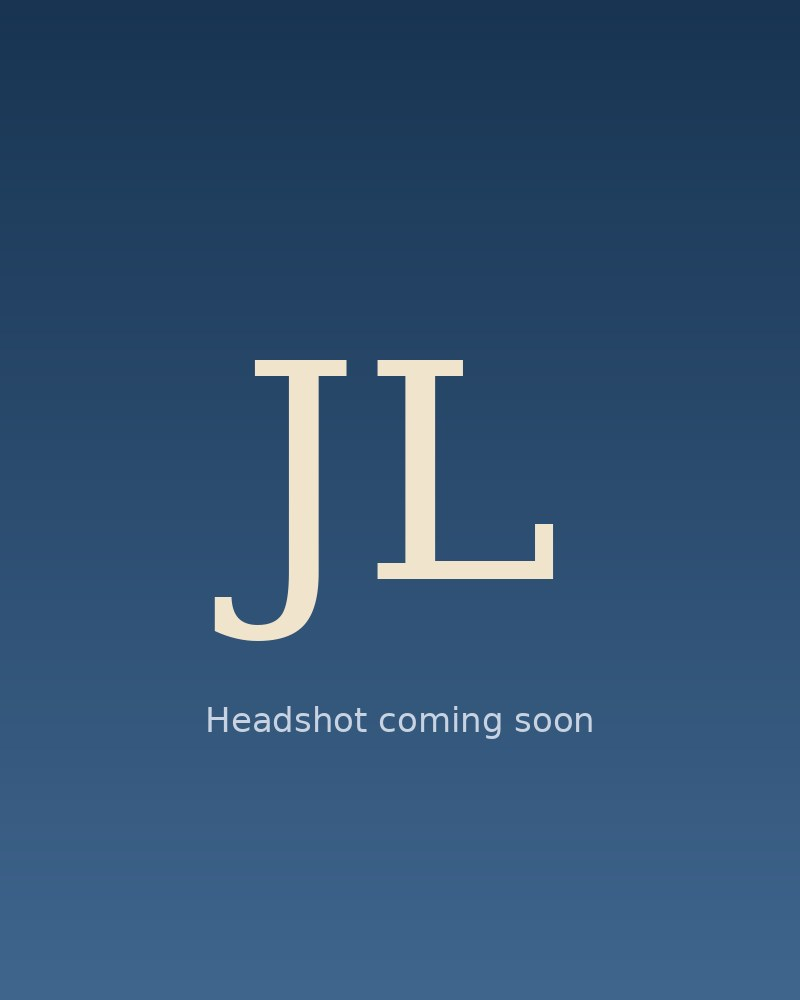
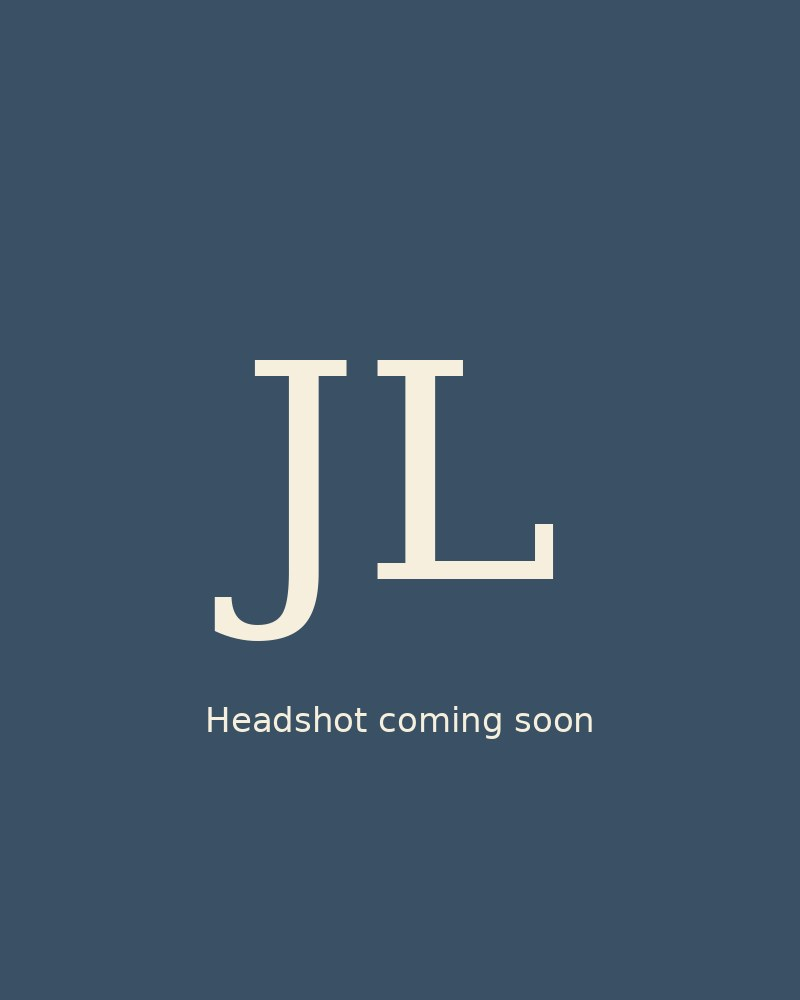
Jose Lugo: slate + cream brand colors
Claude-Session: https://claude.ai/code/session_01P79Njs8aUG8tTWUg37r7P5

diff --git a/elite.css b/elite.css
@@ -1,6 +1,6 @@
 /* ===== Jose Lugo, REALTOR®: Elite ===== */
 :root {
-  --accent: #f78d2d; --accent-soft: #f9b073; --cream: #f4efe8; --ink: #17161a; --muted: #77716b;
+  --accent: #3a5165; --accent-soft: #f6efdd; --cream: #f6efdd; --ink: #1c2a37; --muted: #6b7682;
   --serif: "Instrument Serif", Georgia, serif; --sans: "Inter", system-ui, sans-serif;
   --glass: rgba(255,255,255,.12); --glass-line: rgba(255,255,255,.28); --r: 26px;
 }
@@ -33,7 +33,7 @@ em { font-style: italic; color: var(--accent); }
 
 /* Cursor glow */
 .cursor-glow { position: fixed; z-index: 1; width: 420px; height: 420px; border-radius: 50%; pointer-events: none; left: 0; top: 0;
-  background: radial-gradient(circle, rgba(247,141,45,.18), transparent 65%); transform: translate(-50%,-50%); transition: opacity .4s; mix-blend-mode: screen; }
+  background: radial-gradient(circle, rgba(246,239,221,.18), transparent 65%); transform: translate(-50%,-50%); transition: opacity .4s; mix-blend-mode: screen; }
 
 /* Floating nav */
 .nav-wrap { position: fixed; top: 22px; left: 0; right: 0; z-index: 100; display: flex; justify-content: center; pointer-events: none; }
@@ -74,8 +74,8 @@ em { font-style: italic; color: var(--accent); }
 @keyframes trace { 0% { left: 4%; opacity: 0; } 15% { opacity: 1; } 85% { opacity: 1; } 100% { left: 92%; opacity: 0; } }
 .chip { position: absolute; left: 6%; top: -16px; display: inline-flex; align-items: center; gap: .55rem; padding: .45rem .95rem; border-radius: 999px; font-size: .68rem; letter-spacing: .18em; text-transform: uppercase;
   background: rgba(20,18,22,.45); backdrop-filter: blur(10px); border: 1px solid var(--glass-line); }
-.chip i { width: 8px; height: 8px; border-radius: 50%; background: var(--accent); box-shadow: 0 0 0 0 rgba(247,141,45,.7); animation: ping 2s infinite; }
-@keyframes ping { 70% { box-shadow: 0 0 0 10px rgba(247,141,45,0); } 100% { box-shadow: 0 0 0 0 rgba(247,141,45,0); } }
+.chip i { width: 8px; height: 8px; border-radius: 50%; background: var(--accent); box-shadow: 0 0 0 0 rgba(246,239,221,.7); animation: ping 2s infinite; }
+@keyframes ping { 70% { box-shadow: 0 0 0 10px rgba(246,239,221,0); } 100% { box-shadow: 0 0 0 0 rgba(246,239,221,0); } }
 
 .hero-copy { position: absolute; z-index: 5; left: 6%; bottom: 22%; max-width: 760px; }
 .kicker { font-size: .72rem; letter-spacing: .26em; text-transform: uppercase; opacity: .85; margin: 0 0 1.2rem; }
@@ -160,7 +160,7 @@ em { font-style: italic; color: var(--accent); }
 .panel p { margin: 0 0 1.2rem; font-weight: 300; }
 
 /* Reviews */
-.reviews { padding: 8rem 0; background: #ebe3d8; text-align: center; }
+.reviews { padding: 8rem 0; background: #ede4cd; text-align: center; }
 .rv-wrap { max-width: 1000px; }
 .quotes { position: relative; min-height: 15rem; }
 .q { position: absolute; inset: 0; margin: 0; opacity: 0; transform: translateY(20px); transition: opacity 1s, transform 1s; }
@@ -242,7 +242,7 @@ em { font-style: italic; color: var(--accent); }
 .sec.tight { padding: 5rem 0; }
 .sec.dark { background: var(--ink); color: #fff; }
 .sec.dark .eyebrow { color: rgba(255,255,255,.6); }
-.sec.sand { background: #ebe3d8; }
+.sec.sand { background: #ede4cd; }
 .sec h2 { font-size: clamp(2.6rem, 5vw, 4.4rem); }
 .lead { font-size: 1.1rem; color: var(--muted); max-width: 620px; font-weight: 300; }
 .sec.dark .lead { color: rgba(255,255,255,.75); }
@@ -303,7 +303,7 @@ em { font-style: italic; color: var(--accent); }
 .booking > *:not(.scene) { position: relative; z-index: 2; }
 .cal { display: grid; grid-template-columns: repeat(7, 36px); gap: 6px; justify-content: center; margin: 1.2rem 0; }
 .cal i { height: 36px; border-radius: 10px; background: rgba(255,255,255,.12); font-style: normal; font-size: .8rem; display: grid; place-items: center; backdrop-filter: blur(6px); }
-.cal i.av { background: rgba(247,141,45,.35); } .cal i.sel { background: var(--accent); }
+.cal i.av { background: rgba(58,81,101,.35); } .cal i.sel { background: var(--accent); }
 
 .page-fade { animation: pageIn .9s ease both; }
 @keyframes pageIn { from { opacity: 0; } to { opacity: 1; } }
@@ -407,7 +407,7 @@ em { font-style: italic; color: var(--accent); }
 /* ===== Home: moving lead-tool section with hover grow ===== */
 .tools .stars { animation: twinkle 4s ease-in-out infinite alternate !important; }
 .tools .tool { transition: transform .5s cubic-bezier(.2,.8,.2,1), box-shadow .5s, border-color .5s, opacity 1.1s ease; }
-.tools .tool.reveal.in:hover { transform: scale(1.045); box-shadow: 0 30px 60px rgba(0,0,0,.35); border-color: rgba(247,141,45,.6); }
+.tools .tool.reveal.in:hover { transform: scale(1.045); box-shadow: 0 30px 60px rgba(0,0,0,.35); border-color: rgba(246,239,221,.6); }
 
 /* ===== One-line review strip ===== */
 .quote-strip { padding: 4.2rem 0; background: var(--ink); color: #fff; }
@@ -422,7 +422,7 @@ em { font-style: italic; color: var(--accent); }
 @media (max-width: 900px) { .qs-stage { min-height: 12rem; } .quote-strip { padding: 3rem 0; } }
 
 /* ===== Résumé cards ===== */
-.resumes { background: #ebe3d8; }
+.resumes { background: #ede4cd; }
 .res-grid { display: grid; grid-template-columns: 1fr 1fr; gap: 1.4rem; }
 .res-card { display: grid; grid-template-columns: 170px 1fr; gap: 1.6rem; align-items: center; background: #fff; border-radius: var(--r); padding: 1.4rem; transition: transform .4s, box-shadow .4s; }
 .res-card:hover { transform: translateY(-6px); box-shadow: 0 24px 50px rgba(0,0,0,.1); }
@@ -463,7 +463,7 @@ em { font-style: italic; color: var(--accent); }
 /* ===== Relocation: town finder ===== */
 .towns { display: grid; grid-template-columns: repeat(3, 1fr); gap: 1.2rem; margin-top: 2.4rem; }
 .town { display: flex; flex-direction: column; gap: .8rem; background: #fff; border-radius: var(--r); padding: 1.6rem; border: 1px solid rgba(0,0,0,.06); transition: transform .35s, box-shadow .35s, border-color .35s; }
-.town:hover { transform: translateY(-5px); box-shadow: 0 22px 44px rgba(0,0,0,.09); border-color: rgba(247,141,45,.5); }
+.town:hover { transform: translateY(-5px); box-shadow: 0 22px 44px rgba(0,0,0,.09); border-color: rgba(58,81,101,.5); }
 .t-top { display: flex; justify-content: space-between; align-items: baseline; gap: 1rem; }
 .town h3 { font-size: 1.9rem; margin: 0; }
 .t-top span { font-size: .66rem; letter-spacing: .16em; text-transform: uppercase; color: var(--muted); white-space: nowrap; }
@@ -518,3 +518,12 @@ p { text-wrap: pretty; }
 @media (hover: none) {
   footer nav a, footer .f-links a, .foot a, .pill.sm { min-height: 44px; display: inline-flex; align-items: center; }
 }
+
+/* ===== Brand: slate + cream (Aspyre). Slate on light backgrounds, cream on dark ones ===== */
+.hero em, .page-hero em, .quote-strip em, .sec.dark em, .contact em, .tools em, .booking em, .glass em, .curtain em { color: var(--accent-soft); }
+.qs-stars, .fr-stars, .sec.dark .step::before { color: var(--accent-soft); }
+.pill.solid:hover, .nav-cta:hover { background: var(--accent-soft); color: var(--accent); border-color: var(--accent-soft); }
+.badge { color: var(--accent-soft); }
+.hero .pill.solid, .page-hero .pill.solid, .contact .pill.solid, .tools .pill.solid, .booking .pill.solid { background: var(--accent-soft); color: var(--accent); border-color: var(--accent-soft); }
+.hero .pill.solid:hover, .page-hero .pill.solid:hover, .contact .pill.solid:hover, .tools .pill.solid:hover, .booking .pill.solid:hover { background: #fff; color: var(--ink); border-color: #fff; }
+.chip i, .ph-copy .crumb i { background: var(--accent-soft); }

diff --git a/404.html b/404.html
@@ -10,15 +10,15 @@
 <link href="https://fonts.googleapis.com/css2?family=Instrument+Serif:ital@0;1&family=Inter:wght@400;500;600&display=swap" rel="stylesheet" />
 <style>
   *{box-sizing:border-box;margin:0;padding:0}
-  body{min-height:100svh;display:grid;place-items:center;text-align:center;padding:40px 6vw;font-family:Inter,system-ui,sans-serif;color:#17161a;background:radial-gradient(800px 500px at 50% 0%,rgba(247,141,45,.16),transparent 70%),#f4efe8}
+  body{min-height:100svh;display:grid;place-items:center;text-align:center;padding:40px 6vw;font-family:Inter,system-ui,sans-serif;color:#1c2a37;background:radial-gradient(800px 500px at 50% 0%,rgba(58,81,101,.14),transparent 70%),#f6efdd}
   img{height:52px;width:auto;margin:0 auto 28px;display:block}
-  .code{font:400 clamp(6rem,24vw,13rem)/.85 "Instrument Serif",Georgia,serif;font-style:italic;color:#f78d2d}
+  .code{font:400 clamp(6rem,24vw,13rem)/.85 "Instrument Serif",Georgia,serif;font-style:italic;color:#3a5165}
   h1{font:400 clamp(2rem,5vw,3rem)/1.1 "Instrument Serif",Georgia,serif;margin:12px 0 12px;text-wrap:balance}
   p{color:#77716b;max-width:430px;margin:0 auto 30px;text-wrap:pretty}
   .row{display:flex;gap:12px;justify-content:center;flex-wrap:wrap}
-  a.b{display:inline-flex;align-items:center;min-height:48px;padding:0 1.6rem;border-radius:999px;font-weight:500;text-decoration:none;border:1px solid rgba(23,22,26,.2);color:#17161a}
-  a.b.solid{background:#f78d2d;border-color:#f78d2d;color:#fff}
-  a:focus-visible{outline:2px solid #f78d2d;outline-offset:4px}
+  a.b{display:inline-flex;align-items:center;min-height:48px;padding:0 1.6rem;border-radius:999px;font-weight:500;text-decoration:none;border:1px solid rgba(23,22,26,.2);color:#1c2a37}
+  a.b.solid{background:#3a5165;border-color:#3a5165;color:#fff}
+  a:focus-visible{outline:2px solid #3a5165;outline-offset:4px}
 </style>
 </head>
 <body>
